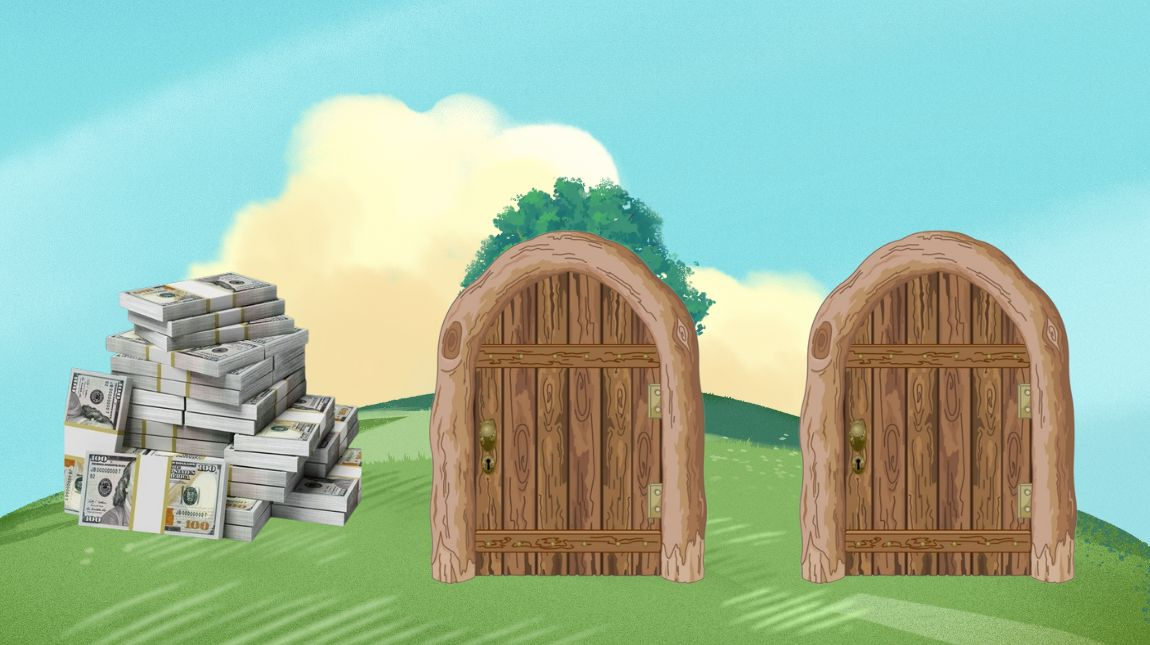
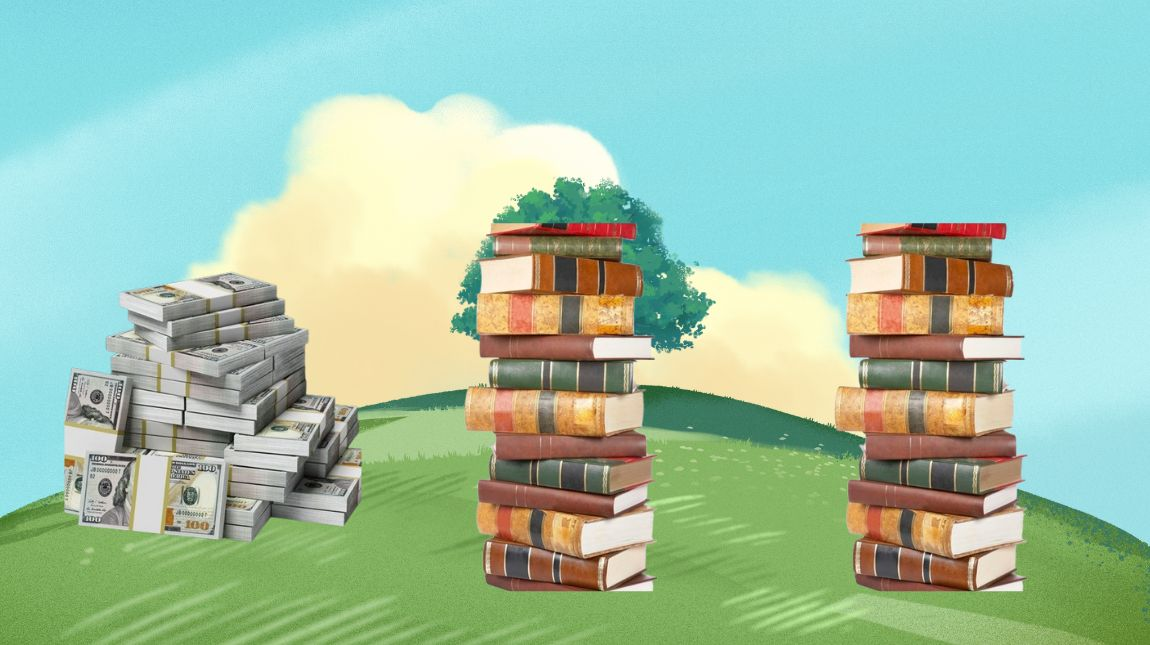
Add files via upload

Changed region(s): [[0.3652, 0.3411, 0.6391, 0.9302], [0.6696, 0.3411, 0.9435, 0.9302]]

diff --git a/PPS_Project/MontyHallSimulation.py b/PPS_Project/MontyHallSimulation.py
@@ -24,7 +24,7 @@ def music():
     pygame.mixer.music.play()
 
 
-def show_car(money, state):
+def show_money(money, state):
     my_font = pygame.font.SysFont("forte", 32)
     display_surface = pygame.display.set_mode((X, Y))
     money1 = pygame.image.load('money_1.jpg')
@@ -205,4 +205,4 @@ while True:
                     state = 4
                     pygame.display.update()
                     print("YOU COULD HAVE WON BY SWITCHING!!")
-            show_car(money, state)
+            show_money(money, state)
